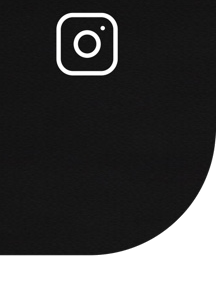
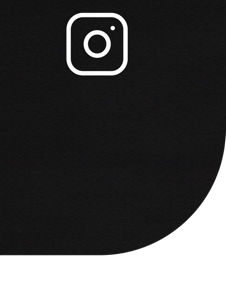
TRY AGAIN

diff --git a/assets/signatures/maxx-email-signature/index.html b/assets/signatures/maxx-email-signature/index.html
@@ -1,28 +1,14 @@
 <!doctype html>
 <html>
-<head>
-<meta charset="utf-8">
-<meta name="viewport" content="width=device-width,initial-scale=1">
-<title>Maxx Mills Email Signature</title>
-</head>
+<head><meta charset="utf-8"><meta name="viewport" content="width=device-width,initial-scale=1"><title>Maxx Mills Email Signature</title></head>
 <body style="margin:0;padding:0;background:transparent;">
 <table role="presentation" cellpadding="0" cellspacing="0" border="0" width="500" style="width:500px;border-collapse:collapse;border-spacing:0;mso-table-lspace:0pt;mso-table-rspace:0pt;">
 <tr>
-<td width="428" height="166" rowspan="2" valign="top" style="padding:0;margin:0;border:0;line-height:0;font-size:0;">
-<img src="assets/main.png" width="428" height="166" alt="Maxx Mills — Founder / Director, The MX Studio" style="display:block;border:0;outline:none;text-decoration:none;">
-</td>
-<td width="72" height="65" valign="top" style="padding:0;margin:0;border:0;line-height:0;font-size:0;">
-<a href="https://www.linkedin.com/in/maxxwatsonmills/" target="_blank" style="display:block;text-decoration:none;">
-<img src="assets/linkedin.png" width="72" height="65" alt="LinkedIn" style="display:block;border:0;outline:none;text-decoration:none;">
-</a>
-</td>
+<td rowspan="2" width="425" height="166" valign="top" style="padding:0;margin:0;border:0;line-height:0;font-size:0;"><img src="assets/main.png" width="425" height="166" alt="Maxx Mills — Founder / Director, The MX Studio" style="display:block;border:0;outline:none;text-decoration:none;margin:0;padding:0;"></td>
+<td width="75" height="65" valign="top" style="padding:0;margin:0;border:0;line-height:0;font-size:0;"><a href="https://www.linkedin.com/in/maxxwatsonmills/" target="_blank" style="display:block;margin:0;padding:0;text-decoration:none;"><img src="assets/linkedin.png" width="75" height="65" alt="LinkedIn" style="display:block;border:0;outline:none;text-decoration:none;margin:0;padding:0;"></a></td>
 </tr>
 <tr>
-<td width="72" height="101" valign="top" style="padding:0;margin:0;border:0;line-height:0;font-size:0;">
-<a href="https://www.instagram.com/themxstudiodigital/" target="_blank" style="display:block;text-decoration:none;">
-<img src="assets/instagram.png" width="72" height="101" alt="Instagram" style="display:block;border:0;outline:none;text-decoration:none;">
-</a>
-</td>
+<td width="75" height="101" valign="top" style="padding:0;margin:0;border:0;line-height:0;font-size:0;"><a href="https://www.instagram.com/themxstudiodigital/" target="_blank" style="display:block;margin:0;padding:0;text-decoration:none;"><img src="assets/instagram.png" width="75" height="101" alt="Instagram" style="display:block;border:0;outline:none;text-decoration:none;margin:0;padding:0;"></a></td>
 </tr>
 </table>
 </body>
